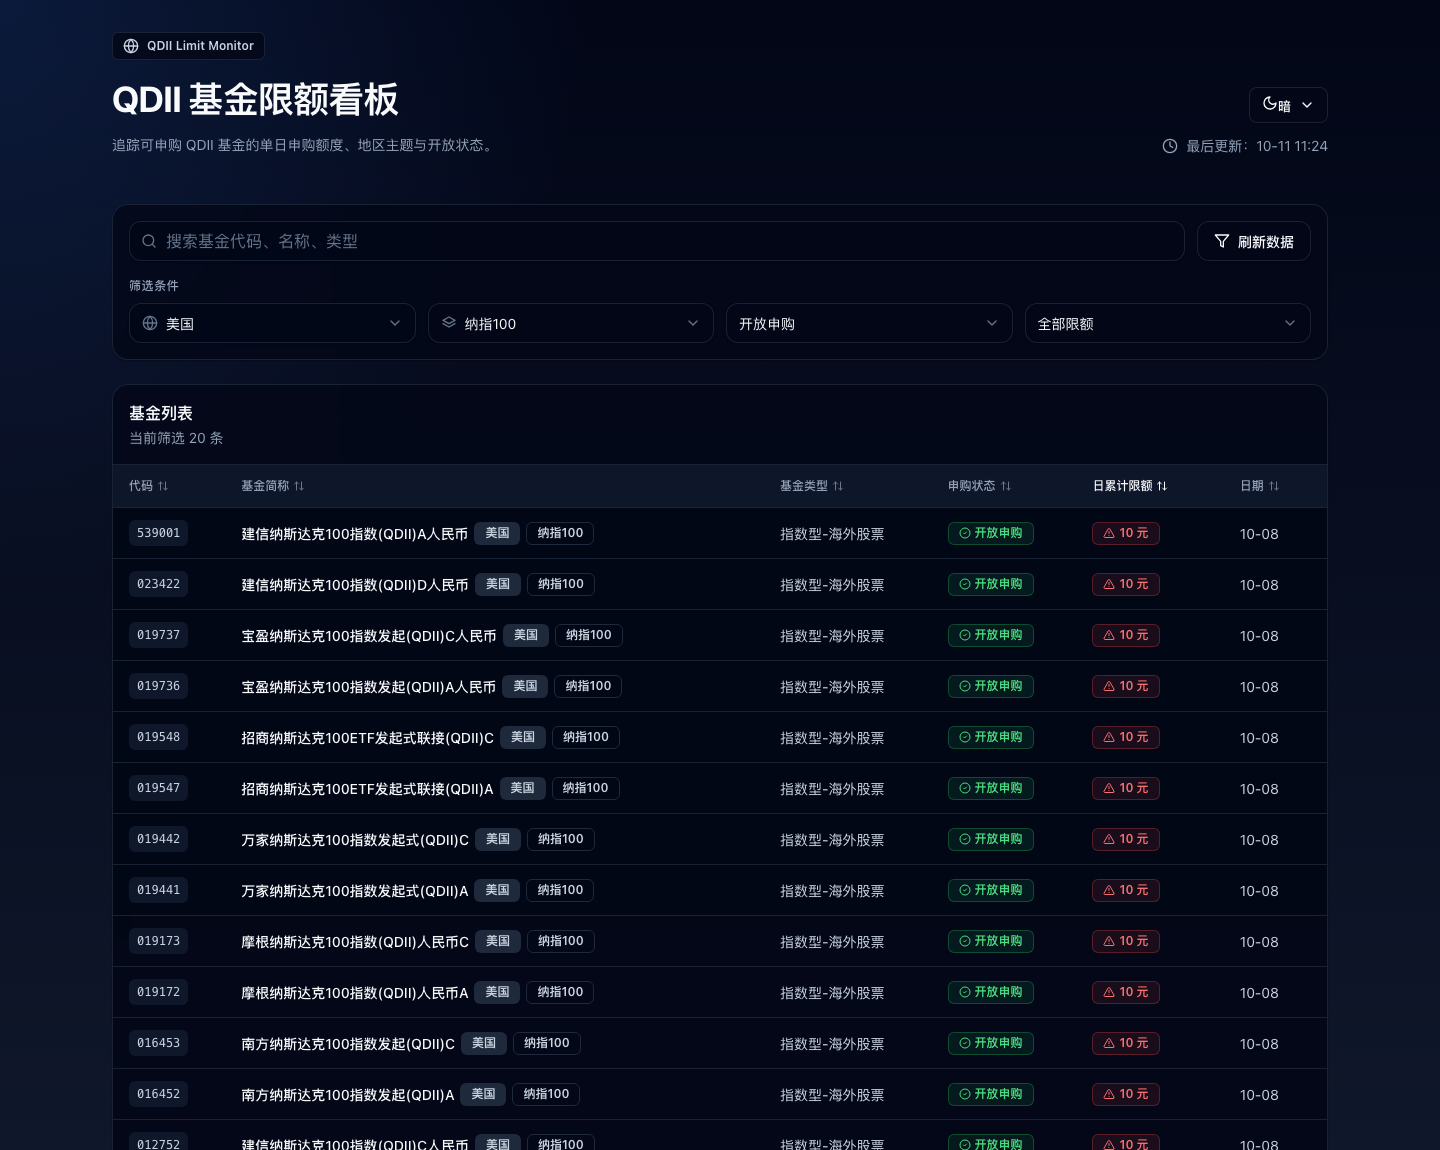
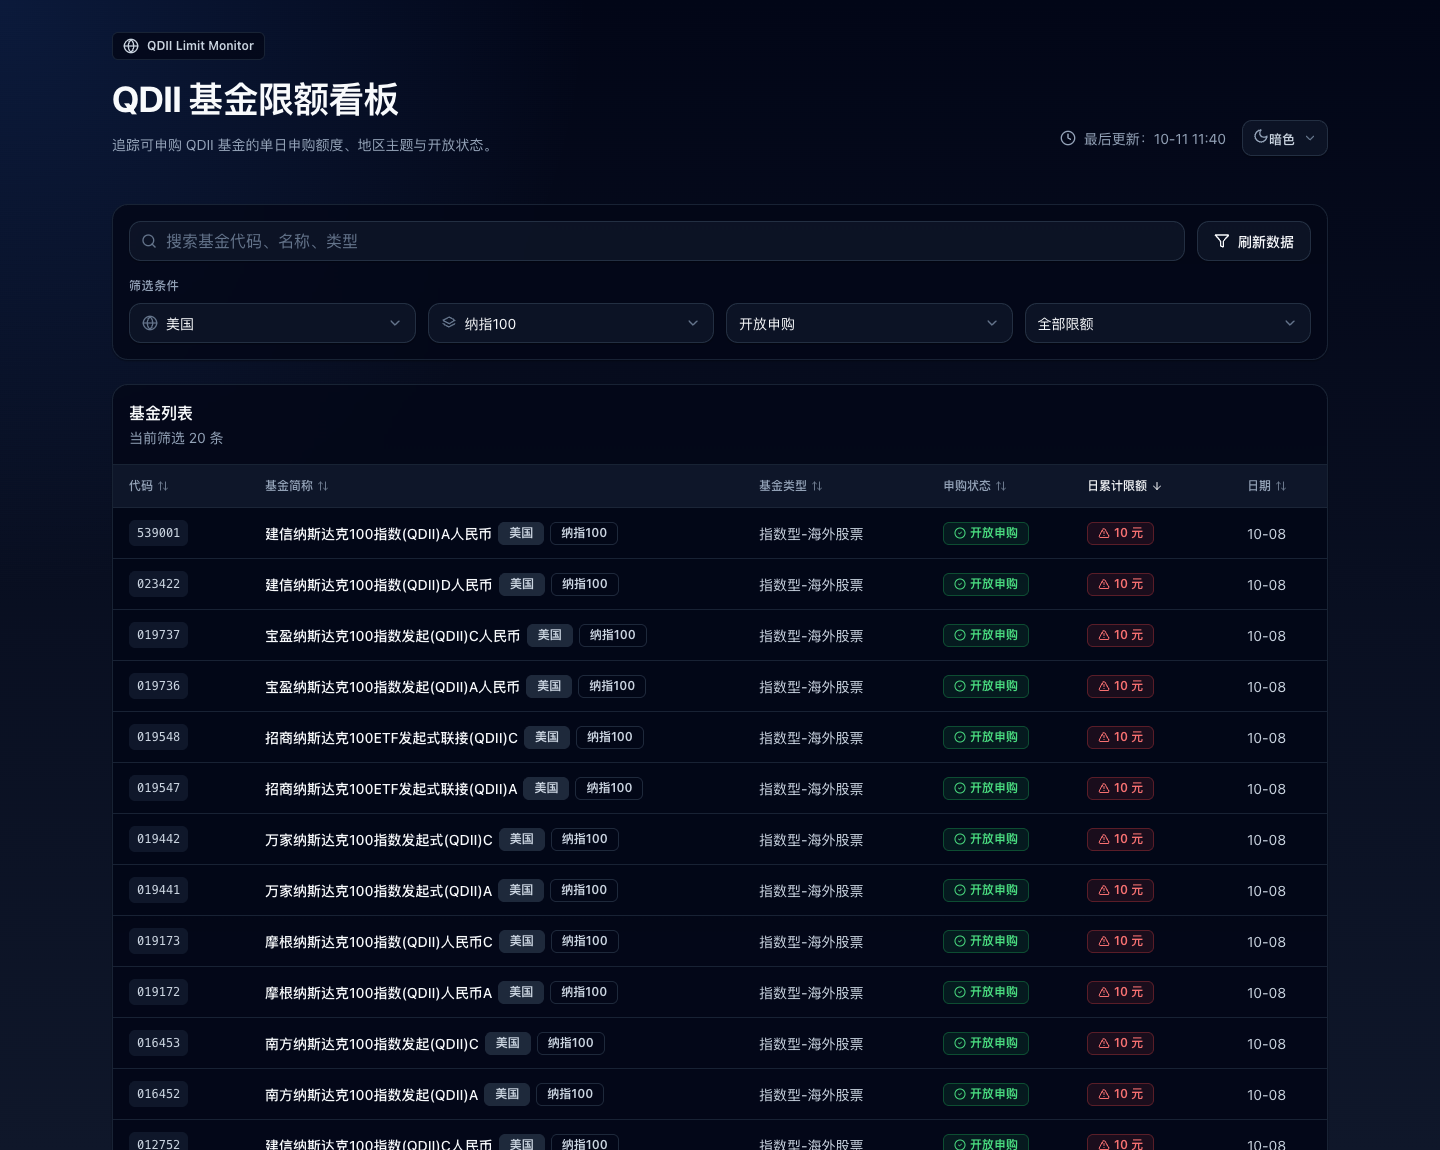
style: 优化页面观感
- 头部主题切换改到「最后更新」同一行，改为「图标 + 完整标签 + 箭头」，不再孤立悬浮
- 表格改固定列宽：基金简称吸收剩余空间，消除列宽失衡与中部大片空白
- 排序列表头显示当前方向（↑/↓），并补 aria-sort
- 页脚补数据来源与免责声明
- 深色模式输入控件/按钮底色提亮一档，层次更清楚
- 修复 1024px 宽度下基金简称列溢出单元格的问题
- 同步更新 README 预览图

diff --git a/public/app.js b/public/app.js
@@ -51,9 +51,9 @@ const LIMIT_OPTIONS = [
 ]
 
 const THEME_MODE_OPTIONS = [
-  ["light", "明亮", "明", "sun"],
-  ["dark", "暗色", "暗", "moon"],
-  ["system", "跟随系统", "系统", "laptop"],
+  { value: "light", label: "明亮", icon: "sun" },
+  { value: "dark", label: "暗色", icon: "moon" },
+  { value: "system", label: "跟随系统", icon: "laptop" },
 ]
 
 const COLUMNS = [
@@ -71,6 +71,8 @@ const ICON_PATHS = {
   chevronDown: '<path d="m6 9 6 6 6-6"/>',
   check: '<path d="M20 6 9 17l-5-5"/>',
   arrowUpDown: '<path d="m21 16-4 4-4-4"/><path d="M17 20V4"/><path d="m3 8 4-4 4 4"/><path d="M7 4v16"/>',
+  arrowUp: '<path d="M12 19V5"/><path d="m5 12 7-7 7 7"/>',
+  arrowDown: '<path d="M12 5v14"/><path d="m19 12-7 7-7-7"/>',
   filter: '<path d="M22 3H2l8 9.46V19l4 2v-8.54L22 3z"/>',
   refresh: '<path d="M3 12a9 9 0 0 1 9-9 9.75 9.75 0 0 1 6.74 2.74L21 8"/><path d="M21 3v5h-5"/><path d="M21 12a9 9 0 0 1-9 9 9.75 9.75 0 0 1-6.74-2.74L3 16"/><path d="M8 16H3v5"/>',
   alertTriangle:
@@ -81,7 +83,7 @@ const ICON_PATHS = {
   helpCircle:
     '<circle cx="12" cy="12" r="10"/><path d="M9.09 9a3 3 0 0 1 5.83 1c0 2-3 3-3 3"/><path d="M12 17h.01"/>',
   circleAlert: '<circle cx="12" cy="12" r="10"/><path d="M12 8v4"/><path d="M12 16h.01"/>',
-  sun: '<circle cx="12" cy="12" r="4"/><path d="M12 2v2M12 20v2M2 12h2M20 12h2M4.93 4.93l1.41 1.41M17.66 17.66l1.41 1.41M4.93 19.07l1.41-1.41M17.66 6.34l1.41-1.41"/>',
+  sun: '<circle cx="12" cy="12" r="4"/><path d="M12 3v2M12 19v2M3 12h2M19 12h2M5.6 5.6 7 7M17 17l1.4 1.4M5.6 18.4 7 17M17 7l1.4-1.4"/>',
   moon: '<path d="M12 3a6 6 0 0 0 9 9 9 9 0 1 1-9-9Z"/>',
   laptop: '<path d="M18 5a2 2 0 0 1 2 2v8H4V7a2 2 0 0 1 2-2h12Z"/><path d="M2 19h20"/>',
 }
@@ -284,7 +286,7 @@ function applyThemeMode(mode) {
 }
 
 function getThemeModeOption() {
-  return THEME_MODE_OPTIONS.find(([value]) => value === state.themeMode) ?? THEME_MODE_OPTIONS[2]
+  return THEME_MODE_OPTIONS.find((option) => option.value === state.themeMode) ?? THEME_MODE_OPTIONS[2]
 }
 
 /* ---------- 下拉控件 ---------- */
@@ -404,21 +406,21 @@ function renderError() {
 }
 
 function renderThemeToggle() {
-  const [, modeLabel, shortLabel, iconName] = getThemeModeOption()
+  const current = getThemeModeOption()
   $("#theme-toggle-root").replaceChildren(
     buildControl({
       key: "theme-mode",
-      iconName,
-      summary: shortLabel,
+      iconName: current.icon,
+      summary: current.label,
       end: true,
-      triggerClass: "btn btn-sm",
+      triggerClass: "btn btn-compact",
       closeOnPick: true,
-      ariaLabel: `切换主题（当前：${modeLabel}）`,
-      items: THEME_MODE_OPTIONS.map(([value, label]) => ({
-        label,
-        selected: state.themeMode === value,
+      ariaLabel: `切换主题（当前：${current.label}）`,
+      items: THEME_MODE_OPTIONS.map((option) => ({
+        label: option.label,
+        selected: state.themeMode === option.value,
         onPick: () => {
-          applyThemeMode(value)
+          applyThemeMode(option.value)
           render()
         },
       })),
@@ -556,8 +558,10 @@ function renderTable() {
 
   const head = $("#table-head-row")
   head.innerHTML = COLUMNS.map(([id, label]) => {
-    const sorted = state.sorting.id === id
-    return `<th><button type="button" class="th-button${sorted ? " is-sorted" : ""}" data-sort="${id}">${escapeHtml(label)}${icon("arrowUpDown")}</button></th>`
+    const active = state.sorting.id === id
+    const sortIcon = active ? (state.sorting.desc ? "arrowDown" : "arrowUp") : "arrowUpDown"
+    const ariaSort = active ? ` aria-sort="${state.sorting.desc ? "descending" : "ascending"}"` : ""
+    return `<th${ariaSort}><button type="button" class="th-button${active ? " is-sorted" : ""}" data-sort="${id}">${escapeHtml(label)}${icon(sortIcon)}</button></th>`
   }).join("")
   head.querySelectorAll("[data-sort]").forEach((button) => {
     button.addEventListener("click", () => toggleSort(button.dataset.sort))

diff --git a/public/styles.css b/public/styles.css
@@ -74,8 +74,8 @@ html.dark {
   --text-soft: #64748b;
   --chip-bg: #0f172a;
   --chip-text: #cbd5e1;
-  --input-bg: rgba(2, 6, 23, 0.8);
-  --input-border: rgba(30, 41, 59, 0.8);
+  --input-bg: rgba(15, 23, 42, 0.72);
+  --input-border: rgba(51, 65, 85, 0.6);
   --popover-bg: #020617;
   --popover-border: #1e293b;
   --btn-hover: #0f172a;
@@ -218,8 +218,8 @@ h2 {
 
 .header-side {
   display: flex;
-  flex-direction: column;
-  align-items: flex-start;
+  align-items: center;
+  justify-content: space-between;
   gap: 0.75rem;
   font-size: 0.875rem;
   color: var(--text-muted);
@@ -227,7 +227,8 @@ h2 {
 
 @media (min-width: 768px) {
   .header-side {
-    align-items: flex-end;
+    justify-content: flex-end;
+    gap: 1rem;
   }
 }
 
@@ -244,6 +245,13 @@ h2 {
   font-size: 0.75rem;
   line-height: 1.75;
   color: var(--text-muted);
+}
+
+.footer-note {
+  margin: 0.375rem 0 0;
+  font-size: 0.6875rem;
+  line-height: 1.6;
+  color: var(--text-soft);
 }
 
 .icon {
@@ -418,6 +426,30 @@ h2 {
   font-size: 0.8125rem;
 }
 
+/* 头部主题切换等紧凑控件：图标与文字间距收紧，圆角与卡片观感统一 */
+.btn-compact {
+  height: 2.25rem;
+  padding: 0 0.625rem;
+  border-radius: 0.625rem;
+  font-size: 0.8125rem;
+  font-weight: 500;
+  color: var(--text-body);
+}
+
+.btn-compact .trigger-label {
+  gap: 0.375rem;
+}
+
+.btn-compact .trigger-label .icon {
+  color: var(--text-muted);
+}
+
+.btn-compact .chevron {
+  width: 0.875rem;
+  height: 0.875rem;
+  color: var(--text-soft);
+}
+
 .filter-trigger {
   width: 100%;
   justify-content: space-between;
@@ -469,7 +501,7 @@ h2 {
 .menu-end {
   left: auto;
   right: 0;
-  width: 10rem;
+  width: max(100%, 10rem);
   max-width: none;
 }
 
@@ -567,9 +599,41 @@ h2 {
 
 .fund-table {
   width: 100%;
+  /* 固定列宽：基金简称吸收剩余空间，其余列宽稳定，避免自动布局把列摊得忽宽忽窄 */
+  table-layout: fixed;
   border-collapse: separate;
   border-spacing: 0;
   font-size: 0.875rem;
+}
+
+.fund-table .col-code {
+  width: 8.5rem;
+}
+
+.fund-table .col-name {
+  width: auto;
+}
+
+.fund-table .col-type {
+  width: 11.5rem;
+}
+
+.fund-table .col-status {
+  width: 9rem;
+}
+
+.fund-table .col-limit {
+  width: 10rem;
+}
+
+.fund-table .col-date {
+  width: 6rem;
+}
+
+@media (max-width: 900px) {
+  .fund-table {
+    min-width: 68rem;
+  }
 }
 
 .fund-table th {
@@ -632,8 +696,9 @@ h2 {
   opacity: 1;
 }
 
+/* 名称列宽度由 colgroup 决定，这里只保证超长名称/标记能正常换行而不是撑破单元格 */
 .cell-name {
-  min-width: 260px;
+  overflow-wrap: break-word;
 }
 
 .cell-name .name-line {

diff --git a/public/index.html b/public/index.html
@@ -42,7 +42,6 @@
             </div>
           </div>
           <div class="header-side">
-            <div id="theme-toggle-root"></div>
             <div class="updated">
               <svg class="icon" viewBox="0 0 24 24" aria-hidden="true">
                 <circle cx="12" cy="12" r="10" />
@@ -50,6 +49,7 @@
               </svg>
               <span id="updated-at">最后更新：-</span>
             </div>
+            <div id="theme-toggle-root"></div>
           </div>
         </header>
 
@@ -95,6 +95,14 @@
             </header>
             <div class="table-wrap">
               <table class="fund-table">
+                <colgroup>
+                  <col class="col-code" />
+                  <col class="col-name" />
+                  <col class="col-type" />
+                  <col class="col-status" />
+                  <col class="col-limit" />
+                  <col class="col-date" />
+                </colgroup>
                 <thead>
                   <tr id="table-head-row"></tr>
                 </thead>
@@ -112,7 +120,10 @@
         </div>
 
         <footer class="page-footer">
-          <span>QDII Limit Monitor</span>
+          <div>QDII Limit Monitor</div>
+          <p class="footer-note">
+            数据来自东方财富公开接口，经自动分类整理，仅供研究参考，不构成投资建议。
+          </p>
         </footer>
       </div>
     </main>

diff --git a/README.md b/README.md
@@ -18,6 +18,7 @@
 - 点击基金代码或基金简称直达东方财富基金详情页
 - 明暗主题切换（明亮 / 暗色 / 跟随系统，记忆在 localStorage）
 - 「刷新数据」强制回源，跳过服务端 6 小时缓存
+- 页脚注明数据来源与免责声明
 
 ![深色看板](docs/preview-dark.png)
 
